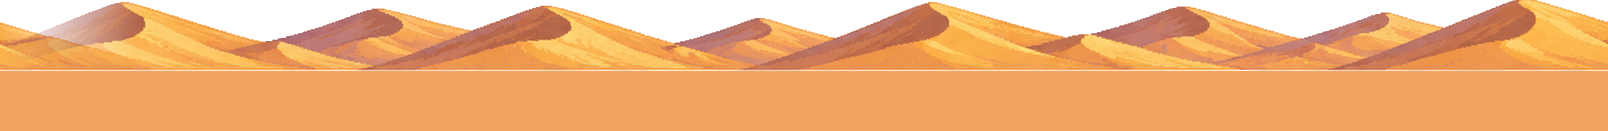
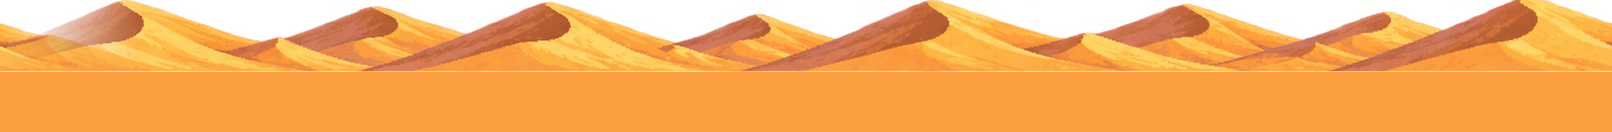
Seamless area transition; drop sprites with white left from painted backgrounds
- Scenery now changes along a boundary hidden behind the peak (and,
  for the ground and foreground, behind the foreground rocks), so it's
  meadow before the mountain and desert after, with no visible switch
- Desert layers re-cut from the transparent desert kit (no white edges)
- Remove the desert stop variants cut from the painted-background sheet

Claude-Session: https://claude.ai/code/session_01MtQBiqbKCuzkutaTWsEgBr

diff --git a/src/scenes/GameScene.js b/src/scenes/GameScene.js
@@ -1,7 +1,7 @@
 import Phaser from 'phaser';
 import { BALANCE, POI_TYPES, START_STATION } from '../config/balance.js';
 import { DEBUG } from '../config/debug.js';
-import { AREAS, COLORS, PARALLAX_LAYERS, TUNNEL, PX_PER_METRE, TRAIN_LAYOUT, WORLD_HEIGHT } from '../config/display.js';
+import { AREAS, COLORS, DEPTH, PARALLAX_LAYERS, TUNNEL, PX_PER_METRE, TRAIN_LAYOUT, WORLD_HEIGHT } from '../config/display.js';
 import { Train } from '../objects/Train.js';
 import { createJunction, createStop, createTransitionRocks, createTunnel } from '../objects/worldObjects.js';
 import { createVisit } from '../poi/poiActions.js';
@@ -180,7 +180,11 @@ export class GameScene extends Phaser.Scene {
     const when = peakMid + (this.train.frontX - screenMid) / PX_PER_METRE;
     const rocksAt = when + (screenMid - this.train.frontX) / (PX_PER_METRE * TUNNEL.rocksFactor);
     this.world.add(rocksAt, createTransitionRocks(this), { factor: TUNNEL.rocksFactor, cullMargin: 1200 });
-    this.tunnel = { at, parts, swapped: false };
+    // The scenery changes along a boundary hidden behind the peak (and, for the layers in front
+    // of it, behind the rocks), so it's meadow before the mountain and desert after.
+    const next = AREAS[(this.areaIndex + 1) % AREAS.length];
+    const split = this.parallax.beginSplit(next, ['ground', 'foreground-back', 'foreground']);
+    this.tunnel = { at, parts, swapped: false, split, peakMid, rocksAt };
   }
 
   /**
@@ -194,12 +198,22 @@ export class GameScene extends Phaser.Scene {
     if (!t.swapped && inside > this.train.length + 10) {
       t.swapped = true;
       this.areaIndex = (this.areaIndex + 1) % AREAS.length;
-      this.parallax.crossfadeTo(this.area, 900);
       this.nextAreaAt = this.state.distance + this.range(BALANCE.route.areaLength);
       this.ui.toast(`Entering ${this.area.name}`);
     }
+    if (t.split) {
+      const d = this.state.distance;
+      const backX = this.train.frontX + (t.peakMid - d) * PX_PER_METRE;
+      const frontX = this.train.frontX + (t.rocksAt - d) * PX_PER_METRE * TUNNEL.rocksFactor;
+      this.parallax.setSplit(backX, frontX);
+      const left = this.cameras.main.worldView.x - 50;
+      if (backX < left && frontX < left) {
+        this.parallax.endSplit();
+        t.split = false;
+      }
+    }
     // Forget it once it has scrolled away (WorldLayer destroys the objects).
-    if (t.swapped && !t.parts.front.active) this.tunnel = null;
+    if (t.swapped && !t.split && !t.parts.front.active) this.tunnel = null;
   }
 
   /** God mode: head into the next area (a tunnel just ahead, or straight after the next stop). */

diff --git a/src/systems/ParallaxBackground.js b/src/systems/ParallaxBackground.js
@@ -1,3 +1,5 @@
+import Phaser from 'phaser';
+
 /**
  * Builds the background layers from PARALLAX_LAYERS and scrolls each at its own rate.
  *
@@ -81,6 +83,67 @@ export class ParallaxBackground {
       // The old layer keeps scrolling while it fades out.
       layer.fading = { obj: old, scale: oldScale };
     }
+  }
+
+  /**
+   * Seamless area change: the new area's layers appear to the right of a boundary and the old
+   * ones stay to the left. Layers in `frontKeys` (the ground and foreground) use one boundary,
+   * hidden behind the foreground rocks; the rest use another, hidden behind the tunnel mountain.
+   * Call setSplit() every frame with both boundaries' x, and endSplit() once they're off screen.
+   */
+  beginSplit(area, frontKeys) {
+    if (this.scene.sys.renderer.type !== Phaser.WEBGL) {
+      // Masks need WebGL; otherwise just crossfade.
+      this.crossfadeTo(area, 900);
+      return false;
+    }
+    const make = () => {
+      const g = this.scene.make.graphics({}, false);
+      const show = g.createGeometryMask();
+      const hide = g.createGeometryMask().setInvertAlpha(true);
+      return { g, show, hide };
+    };
+    const split = (this.split = { back: make(), front: make(), layers: [] });
+    for (const layer of this.layers) {
+      if (layer.base.tile === false) continue;
+      const cfg = this.areaConfig(layer.base, area);
+      if (cfg.key === layer.cfg.key) continue;
+      const side = frontKeys.includes(layer.base.key) ? split.front : split.back;
+      const old = layer.obj;
+      const oldScale = layer.scale;
+      const { obj, scale } = this.makeObject(cfg, old.tilePositionX * oldScale);
+      old.setMask(side.hide);
+      obj.setMask(side.show);
+      layer.cfg = cfg;
+      layer.obj = obj;
+      layer.scale = scale;
+      layer.fading = { obj: old, scale: oldScale }; // keeps scrolling until the split ends
+      split.layers.push(layer);
+    }
+    this.setSplit(99999, 99999);
+    return true;
+  }
+
+  setSplit(backX, frontX) {
+    if (!this.split) return;
+    for (const [side, x] of [[this.split.back, backX], [this.split.front, frontX]]) {
+      side.g.clear().fillStyle(0xffffff).fillRect(x, -4000, 40000, 8000);
+    }
+  }
+
+  endSplit() {
+    if (!this.split) return;
+    for (const layer of this.split.layers) {
+      layer.fading?.obj.destroy();
+      layer.fading = null;
+      layer.obj.clearMask();
+    }
+    for (const side of [this.split.back, this.split.front]) {
+      side.show.destroy();
+      side.hide.destroy();
+      side.g.destroy();
+    }
+    this.split = null;
   }
 
   /**

diff --git a/src/config/display.js b/src/config/display.js
@@ -93,11 +93,11 @@ export const AREAS = [
     },
     // Stops here use desert buildings (one look picked at random) and the desert platform.
     buildings: {
-      coalDepot: ['desert-coal-depot', 'desert-coal-depot-b'],
-      town: ['desert-town', 'desert-town-b'],
-      mine: ['desert-mine', 'desert-mine-b'],
-      workshop: ['desert-workshop', 'desert-workshop-b', 'desert-workshop-c'],
-      waterTower: ['desert-water-tower', 'desert-water-tower-b'],
+      coalDepot: ['desert-coal-depot'],
+      town: ['desert-town'],
+      mine: ['desert-mine'],
+      workshop: ['desert-workshop'],
+      waterTower: ['desert-water-tower'],
     },
     platform: 'desert-platform',
   },
@@ -116,7 +116,7 @@ export const TUNNEL = {
   foothillOverlap: 0.45, // how much of each foothill tucks behind the peak
   baseHeight: 96,
   rockBandHeight: 150, // long low ridge behind the foothills
-  rocksHeight: 120, // rock pile that sweeps past in front of everything
+  rocksHeight: 175, // rock pile that sweeps past in front of everything (covers the ground's join)
   rocksFactor: 1.35, // ...at the foreground's parallax speed
   portalHeight: 190,
   opening: { left: 0.216, right: 0.595, top: 0.33 },

diff --git a/src/config/assets.js b/src/config/assets.js
@@ -35,16 +35,10 @@ export const IMAGES = {
 
   // Desert stops (see AREAS in display.js)
   'desert-coal-depot': 'pois/desert-coal-depot.png',
-  'desert-coal-depot-b': 'pois/desert-coal-depot-b.png',
   'desert-town': 'pois/desert-town.png',
-  'desert-town-b': 'pois/desert-town-b.png',
   'desert-mine': 'pois/desert-mine.png',
-  'desert-mine-b': 'pois/desert-mine-b.png',
   'desert-workshop': 'pois/desert-workshop.png',
-  'desert-workshop-b': 'pois/desert-workshop-b.png',
-  'desert-workshop-c': 'pois/desert-workshop-c.png',
   'desert-water-tower': 'pois/desert-water-tower.png',
-  'desert-water-tower-b': 'pois/desert-water-tower-b.png',
   'desert-platform': 'sprites/desert-platform.png',
   'tunnel-portal': 'sprites/tunnel-portal.png',
   'tunnel-portal-exit': 'sprites/tunnel-portal-exit.png',

diff --git a/src/objects/worldObjects.js b/src/objects/worldObjects.js
@@ -127,6 +127,6 @@ export function createTunnel(scene) {
 
 /** The rock pile that sweeps past in front of everything during a tunnel (see TUNNEL.rocksFactor). */
 export function createTransitionRocks(scene) {
-  const r = scene.add.image(0, 742, 'transition-rocks').setOrigin(0.5, 1).setDepth(DEPTH.foreground + 1);
+  const r = scene.add.image(0, 748, 'transition-rocks').setOrigin(0.5, 1).setDepth(DEPTH.foreground + 1);
   return r.setScale(TUNNEL.rocksHeight / r.height);
 }

diff --git a/scripts/slice-art.py b/scripts/slice-art.py
@@ -439,7 +439,7 @@ report['ground.designHeight'] = round(ground.height * 0.3, 1)
 # how big each is drawn. Heights in design px are reported to src/config/area-art.json.
 # ------------------------------------------------------------------------------------------
 area_art = {}
-dkit = remove_painted_background(S('desert-kit.png'))
+dkit = S('desert-kit-transparent.png')  # the re-upload with real transparency (no white edges)
 
 
 def desert_layer(name, img, scale_):
@@ -486,8 +486,7 @@ portal = scale(crop(S('tunnel-portal.png'), (0, 0, 1312, 1199)), 0.4)
 save(portal, 'sprites/tunnel-portal.png')
 save(portal.transpose(Image.FLIP_LEFT_RIGHT), 'sprites/tunnel-portal-exit.png')  # mirrored, for the far end
 
-# Desert stops: buildings from desert-stops.png (transparent) and desert-stops-variants.png
-# (checkerboard painted in, so it's removed first), plus the desert platform.
+# Desert stops: buildings from desert-stops.png (transparent), plus the desert platform.
 ds = S('desert-stops.png')
 for name, box in {
     'desert-coal-depot': (11, 14, 474, 387), 'desert-town': (491, 47, 1027, 386),
@@ -496,21 +495,7 @@ for name, box in {
 }.items():
     save(crop(ds, box), f'pois/{name}.png')
 save(crop(ds, (1210, 426, 2086, 688)), 'sprites/desert-platform.png')
-dsv = remove_painted_background(S('desert-stops-variants.png'))
-dsv_pieces = find_pieces(dsv, (0, 0, dsv.width, dsv.height), alpha=128, grow=2, min_size=60)
-report['desert-stops-variants'] = dsv_pieces
-DSV = {  # (row, column) on the variants sheet
-    'desert-mine-b': (0, 0), 'desert-town-b': (0, 2), 'desert-workshop-b': (0, 3),
-    'desert-water-tower-b': (1, 0), 'desert-coal-depot-b': (1, 2), 'desert-workshop-c': (1, 3),
-}
-rows = {}
-for p in sorted(dsv_pieces, key=lambda b: (b[1] + b[3]) / 2):
-    cy = (p[1] + p[3]) / 2
-    key = next((k for k in rows if abs(k - cy) < 120), cy)
-    rows.setdefault(key, []).append(p)
-row_list = [sorted(v) for _, v in sorted(rows.items())]
-for name, (r, c) in DSV.items():
-    save(crop(dsv, row_list[r][c]), f'pois/{name}.png')
+# (desert-stops-variants.png isn't used: its painted background leaves white inside the buildings.)
 
 # Transition: rock pile that passes in front of everything as the train goes through the tunnel.
 fg_rocks = remove_painted_background(S('transition-foreground-rocks.png'))
